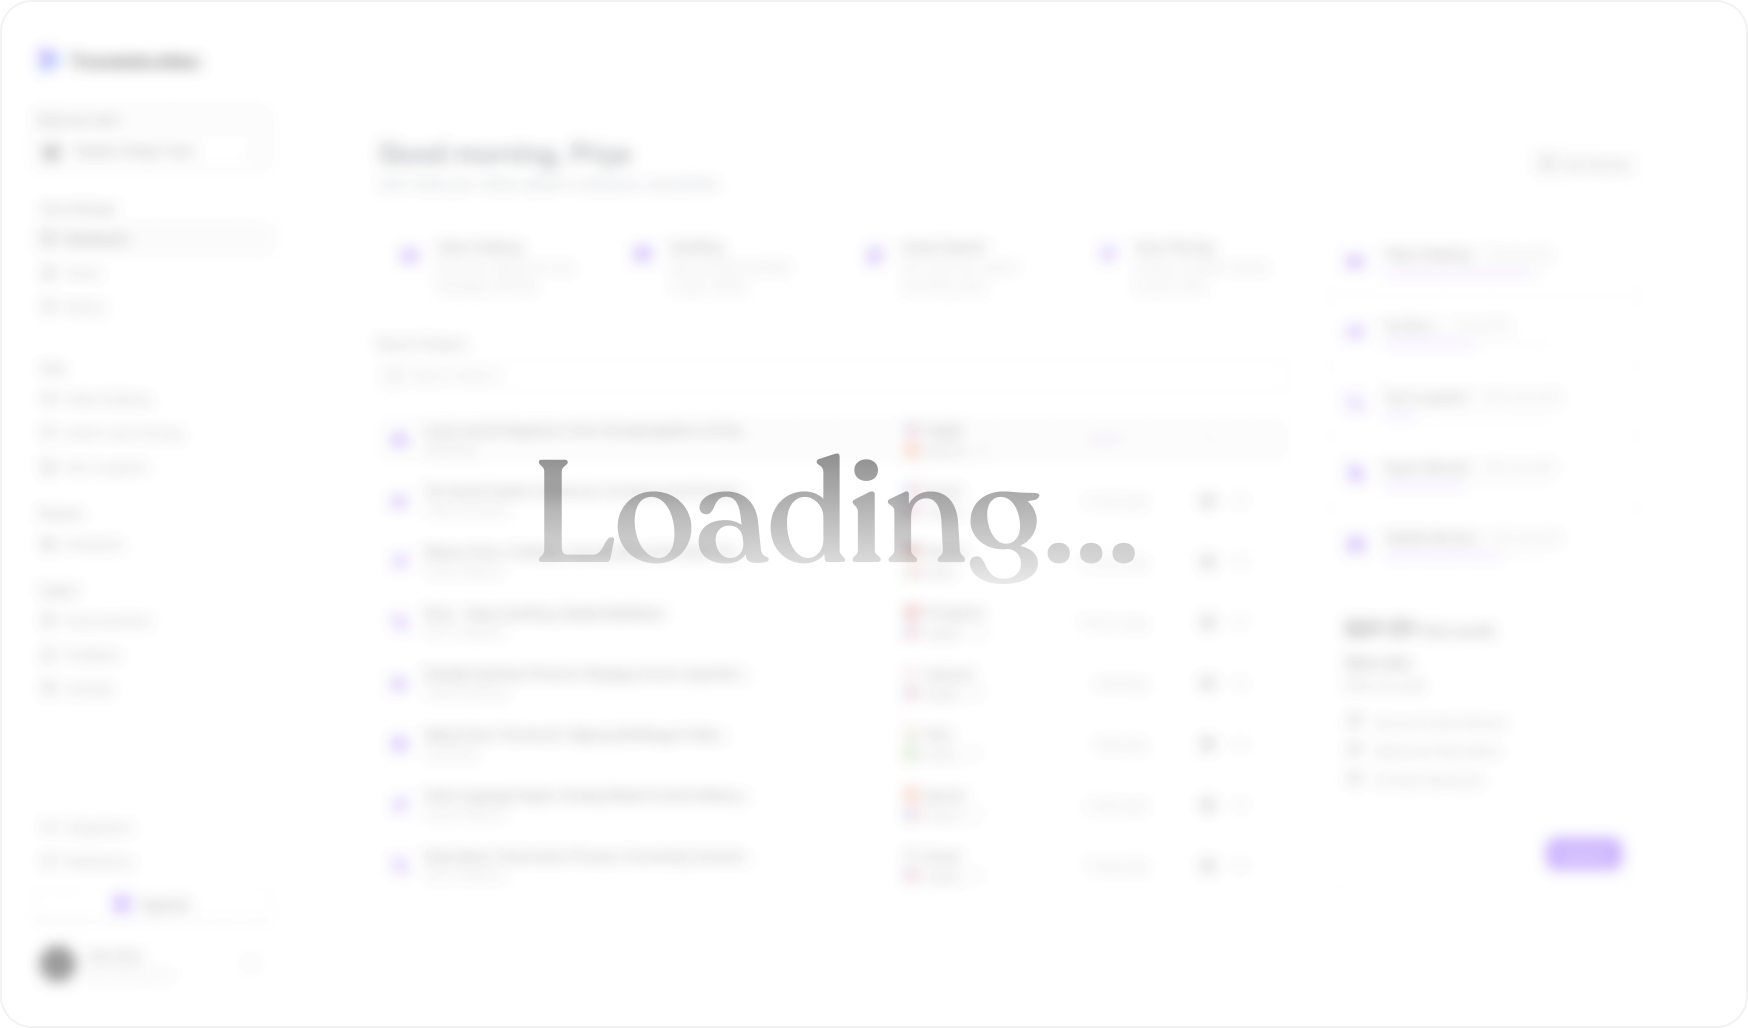
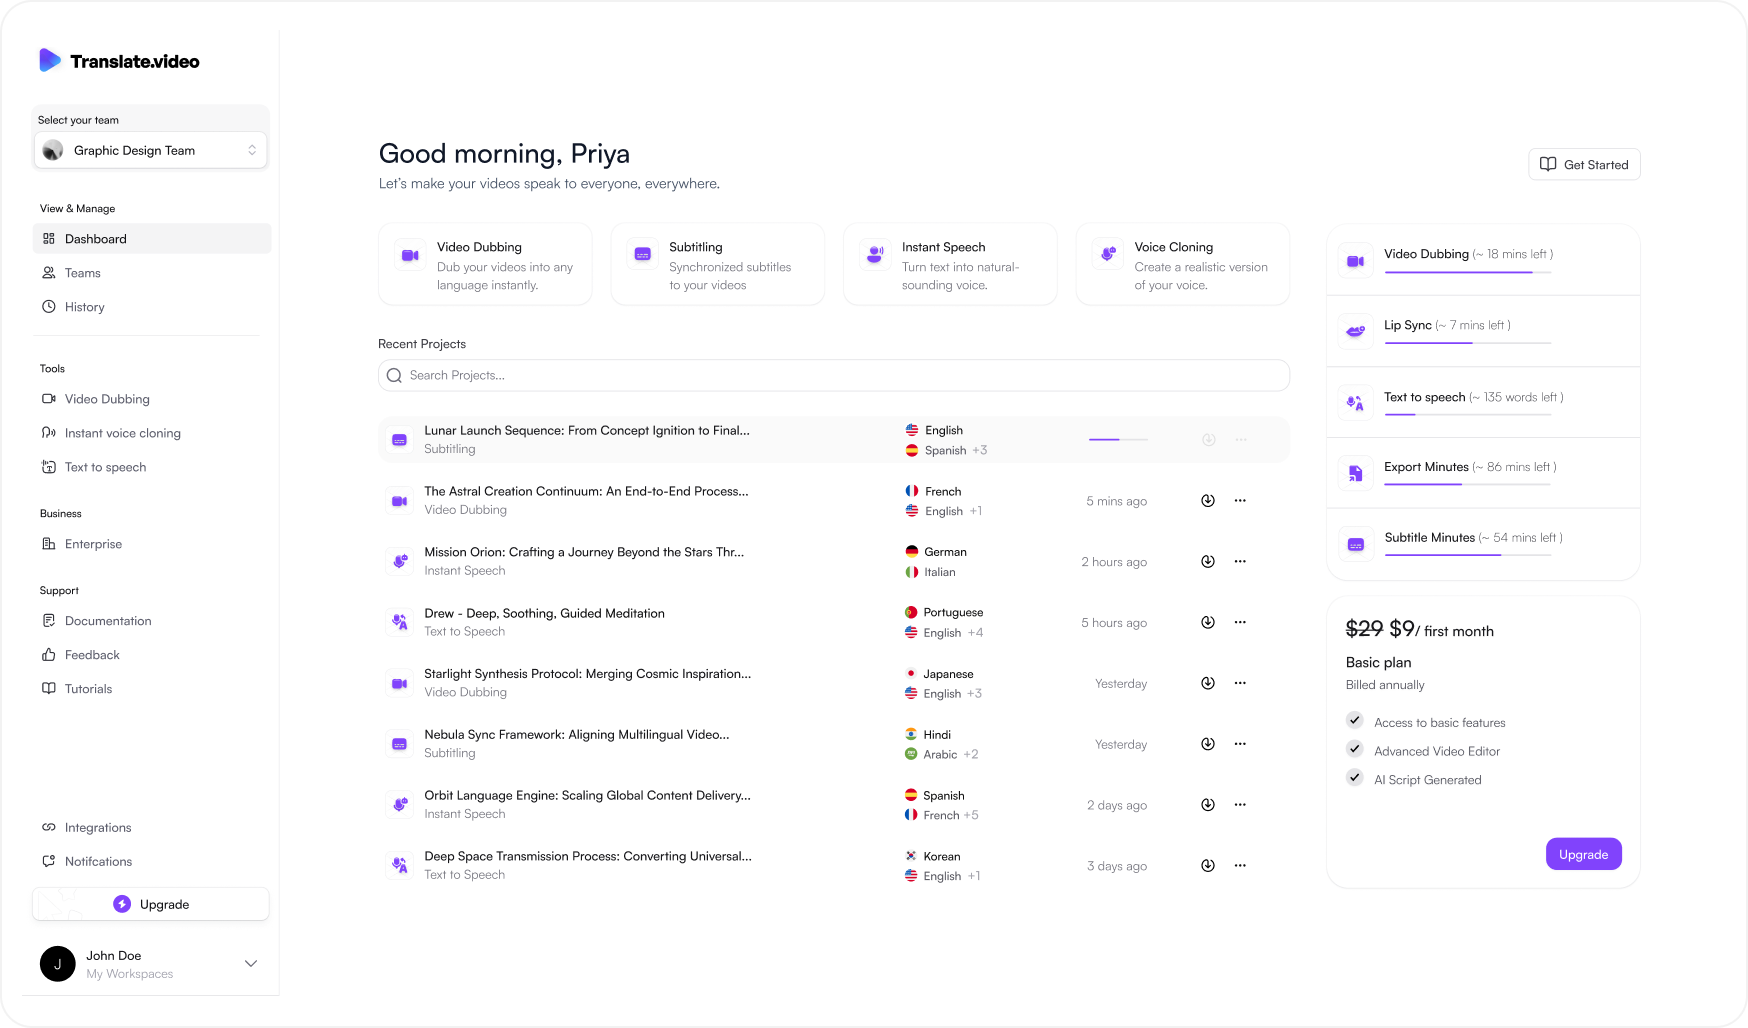
Update the home work cards and mirror the side nav in the Solution state
Home (5908:32522 — Figma replaced the frame I first built from, 5854:49620,
which no longer exists):

- Card 03's preview was the pre-redesign dashboard. It now uses the card's own
  Container (5908:32701), which is the redesigned screen — grouped sidebar,
  feature cards, searchable Recent Projects. Taken from the home card rather
  than the case study, since that frame renders a slightly different sidebar.
- Card 04 is no longer Translate.photo. Figma titles it "Vitra Universe
  (Product)" and fills its preview with a padlock placeholder (5908:33741),
  with no click target — so it reads as locked and stays inert.

Cards 01 and 02 were diffed against the new frame and are unchanged (max
channel difference 6, no pixel above 40), so their artwork is left alone.

Case study, Solution state: the side nav listed Components / Spacing / Drop
Shadow, which is what that frame's layer list says but they are leftovers from
the design-system case study — the frame has no such sections, so three entries
pointed nowhere. It now carries the same six entries as the Problem state with
Solution in the active slot, and the three tail targets shifted by tailOffset
so they land on this state's sections.

diff --git a/src/app/work/translate-video/content.ts b/src/app/work/translate-video/content.ts
@@ -263,16 +263,21 @@ export const AFTER: StateContent = {
     leftLabel: "Before", rightLabel: "~ After", selected: "right",
     left: { x: 11, w: 66 }, right: { x: 79, w: 68 }, pill: { x: 75, w: 76 },
   },
+  /*
+   * The frame's own list reads Components / Spacing / Drop Shadow, which are
+   * leftovers from the design-system case study — this frame has no such
+   * sections. The index carries the same six entries as the Before state, with
+   * Solution in the active slot, and the tail entries shifted by tailOffset.
+   */
   nav: {
     left: 241, width: 124,
     items: [
       { label: "Introduction", id: "introduction", top: 2004 },
       { label: "My Role", id: "my-role", top: 2303 },
       { label: "Solution", id: "solution", top: 2706 },
-      // The frame carries these three labels but has no matching sections.
-      { label: "Components" },
-      { label: "Spacing" },
-      { label: "Drop Shadow" },
+      { label: "What I learned", id: "what-i-learned", top: 15107 },
+      { label: "What it changed", id: "what-it-changed", top: 14015 },
+      { label: "What worked", id: "what-worked", top: 14554 },
     ],
   },
   heading: { top: 2706, text: "Solution" },

diff --git a/src/components/sections/Works.tsx b/src/components/sections/Works.tsx
@@ -21,7 +21,13 @@ import Link from "next/link";
  *
  * Card 03 links to the Translate.video case study — the home frame wires it up
  * (5908:32696 -> 5908:21013) — but it is a plain frame with no hover variant,
- * so it links without dimming. Card 04 still has no page.
+ * so it links without dimming. Its preview is the redesigned dashboard, taken
+ * from the card's own Container (5908:32701) rather than the case study, which
+ * renders a slightly different sidebar.
+ *
+ * Card 04 is "Vitra Universe (Product)": Figma fills its preview with a padlock
+ * placeholder (5908:33741) and gives it no click target, so it reads as locked
+ * and stays inert here too.
  */
 
 type Work = {
@@ -70,8 +76,8 @@ const WORKS: Work[] = [
   },
   {
     index: "Case Study 04",
-    title: "Translate.photo V2 (Product)",
-    image: "work-04-translatephoto.png",
+    title: "Vitra Universe (Product)",
+    image: "work-04-vitra-universe.png",
     dims: false,
     left: 916,
     top: 626,
